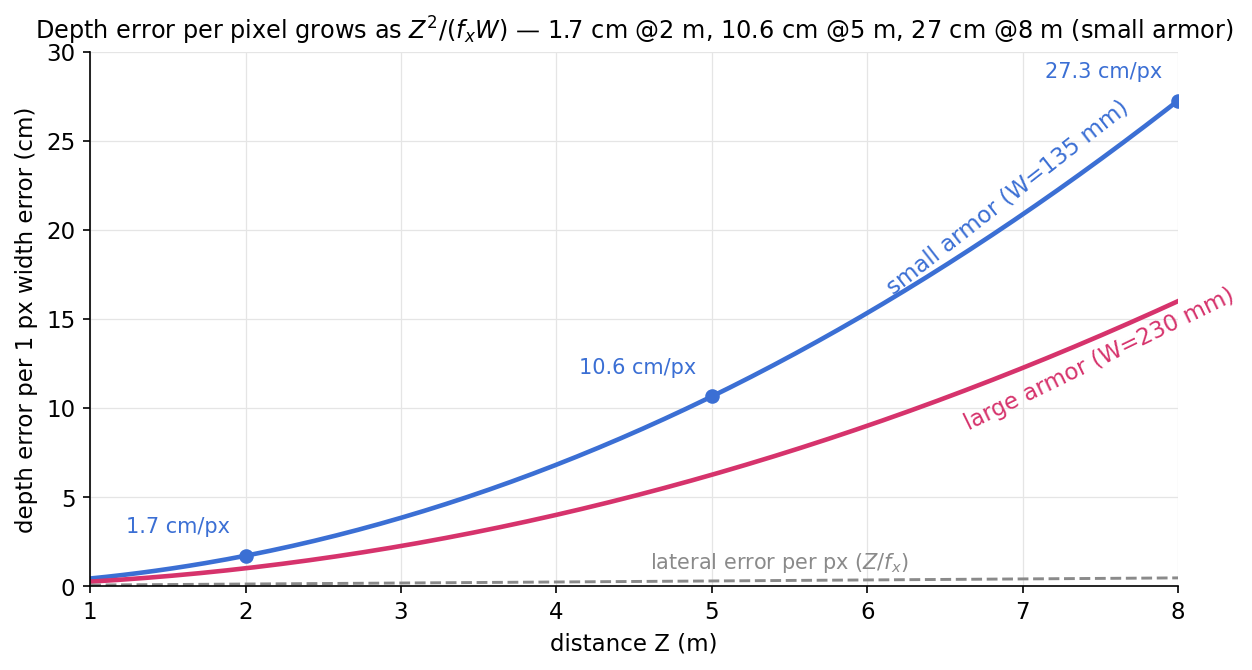
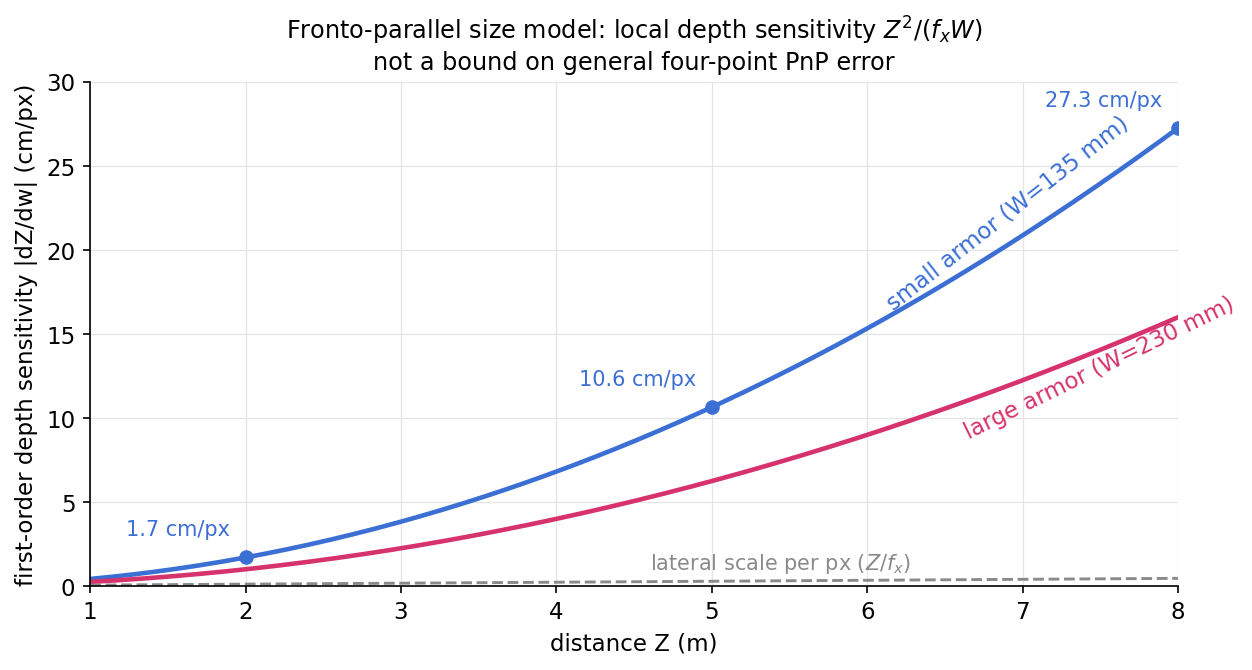
style(theory): 校准深度学习与相机模型叙述

diff --git a/examples/theory/camera_depth_sensitivity.py b/examples/theory/camera_depth_sensitivity.py
@@ -1,10 +1,14 @@
-# Depth error caused by 1 px of armor-width measurement error, vs distance.
-# Z = fx*W/w  =>  |dZ/dw| = Z^2/(fx*W): quadratic growth with distance.
+# First-order depth sensitivity to image-width measurement, vs distance.
+# Z = fx*W/w  =>  |dZ/dw| = Z^2/(fx*W) under the fronto-parallel size model.
 # fx = 1739 px (6 mm lens, 3.45 um pixel), W = 135 mm (small) / 230 mm (large).
 # Generates chapters/2.Theory/images/theory-camera-depth.png
 import numpy as np
 import matplotlib.pyplot as plt
 import matplotlib as mpl
+from pathlib import Path
+
+OUTPUT = (Path(__file__).resolve().parents[2]
+          / "chapters/2.Theory/images/theory-camera-depth.png")
 
 BLUE, MAGENTA, GRAY = "#3B6FD4", "#D6336C", "#8A8A8A"
 mpl.rcParams.update({"font.size": 11})
@@ -27,7 +31,7 @@ ax.annotate("small armor (W=135 mm)", (6.1, dz_small[-60] + 1.5),
             color=BLUE, fontsize=11, rotation=38)
 ax.annotate("large armor (W=230 mm)", (6.6, dz_large[-40] - 2.2),
             color=MAGENTA, fontsize=11, rotation=26)
-ax.annotate("lateral error per px ($Z/f_x$)", (4.6, 1.0), color=GRAY, fontsize=10)
+ax.annotate("lateral scale per px ($Z/f_x$)", (4.6, 1.0), color=GRAY, fontsize=10)
 
 # annotated points on the small-armor curve
 for z0 in (2, 5, 8):
@@ -37,9 +41,9 @@ for z0 in (2, 5, 8):
                 color=BLUE, fontsize=10)
 
 ax.set_xlabel("distance Z (m)")
-ax.set_ylabel("depth error per 1 px width error (cm)")
-ax.set_title("Depth error per pixel grows as $Z^2/(f_x W)$ — "
-             "1.7 cm @2 m, 10.6 cm @5 m, 27 cm @8 m (small armor)",
+ax.set_ylabel("first-order depth sensitivity |dZ/dw| (cm/px)")
+ax.set_title("Fronto-parallel size model: local depth sensitivity $Z^2/(f_x W)$\n"
+             "not a bound on general four-point PnP error",
              fontsize=11.5)
 ax.set_xlim(1, 8)
 ax.set_ylim(0, 30)
@@ -48,6 +52,5 @@ ax.set_axisbelow(True)
 for s in ("top", "right"):
     ax.spines[s].set_visible(False)
 fig.tight_layout()
-fig.savefig("/home/neomelt/RMCV_Tutorial/chapters/2.Theory/images/theory-camera-depth.png",
-            dpi=150, bbox_inches="tight", facecolor="white")
+fig.savefig(OUTPUT, dpi=150, bbox_inches="tight", facecolor="white")
 print("saved theory-camera-depth.png")

diff --git a/examples/theory/dl_mlp_dissect.py b/examples/theory/dl_mlp_dissect.py
@@ -1,4 +1,4 @@
-# 图：拆解基础篇的 mlp.onnx 数字分类器——三个真实候选的前向传播结果
+# 图：拆解基础篇的 mlp.onnx 数字分类器——三个仓库视频候选的前向结果
 # 复刻 examples/cpp/lightbar_pipeline.cpp 的提取流程（Python 版）：
 # 从 examples/test.mp4 的 7.0 s 帧提取灯条候选并配对，把候选区域透视矫正
 # 成 20x28 二值小图，喂给真实的 mlp.onnx，画出 9 类 softmax 概率。
@@ -6,12 +6,14 @@
 import cv2
 import numpy as np
 import matplotlib.pyplot as plt
+from pathlib import Path
 
-REPO = "/home/neomelt/RMCV_Tutorial"
+REPO_ROOT = Path(__file__).resolve().parents[2]
+OUTPUT = REPO_ROOT / "chapters/2.Theory/images/theory-dl-mlp-dissect.png"
 NAMES = ["1", "2", "3", "4", "5", "outpost", "guard", "base", "negative"]
 
 # --- 1) 取帧、二值化、找灯条（与基础篇 C++ 判据一致） ---
-cap = cv2.VideoCapture(f"{REPO}/examples/test.mp4")
+cap = cv2.VideoCapture(str(REPO_ROOT / "examples/test.mp4"))
 cap.set(cv2.CAP_PROP_POS_MSEC, 7000)
 ok, frame = cap.read()
 assert ok
@@ -59,7 +61,7 @@ for i in range(len(blues)):
         cands.append((left, right, "SMALL" if small else "LARGE"))
 
 # --- 3) 透视矫正成 20x28 二值图，跑真实的 mlp.onnx ---
-net = cv2.dnn.readNetFromONNX(f"{REPO}/examples/cpp/model/mlp.onnx")
+net = cv2.dnn.readNetFromONNX(str(REPO_ROOT / "examples/cpp/model/mlp.onnx"))
 results = []
 for left, right, typ in cands:
     light_len, warp_h = 12, 28
@@ -113,10 +115,9 @@ for col, k in enumerate(order):
     ax.set_yticks([0, 0.5, 1.0])
     ax.grid(axis="y", alpha=0.25, linewidth=0.5)
     if col == 0:
-        ax.set_ylabel("softmax probability", fontsize=9)
-fig.suptitle("mlp.onnx forward pass on three real candidates from the match video",
+        ax.set_ylabel("softmax output", fontsize=9)
+fig.suptitle("mlp.onnx outputs for three candidates from the repository video",
              fontsize=11.5)
 fig.tight_layout(rect=[0, 0, 1, 0.97])
-fig.savefig(f"{REPO}/chapters/2.Theory/images/theory-dl-mlp-dissect.png",
-            bbox_inches="tight")
+fig.savefig(OUTPUT, bbox_inches="tight")
 print("saved")

diff --git a/examples/theory/dl_optimizers.py b/examples/theory/dl_optimizers.py
@@ -3,6 +3,10 @@
 # 产出：chapters/2.Theory/images/theory-dl-optimizers.png
 import numpy as np
 import matplotlib.pyplot as plt
+from pathlib import Path
+
+OUTPUT = (Path(__file__).resolve().parents[2]
+          / "chapters/2.Theory/images/theory-dl-optimizers.png")
 
 A, B = 0.01, 1.0          # 两个方向的曲率：w1 平缓，w2 陡峭
 
@@ -17,7 +21,7 @@ def grad(p):
 
 start = np.array([-9.0, 2.5])
 steps = 60
-lr = 1.8                   # 接近 GD 稳定上界 2/B：陡峭方向剧烈振荡，平缓方向蠕动
+lr = 1.8                   # 接近 GD 稳定上界 2/B：高曲率方向反复换向
 
 # 朴素梯度下降
 p = start.copy()
@@ -27,7 +31,7 @@ for _ in range(steps):
     traj_gd.append(p.copy())
 traj_gd = np.array(traj_gd)
 
-# 动量法：v 累积历史梯度，振荡分量相互抵消，一致分量越滚越快
+# 动量法：v 累积历史梯度，反复变号的分量会部分抵消
 p = start.copy()
 v = np.zeros(2)
 beta, lr_m = 0.9, 0.4
@@ -56,13 +60,12 @@ ax.plot(*start, "ks", ms=7, zorder=5)
 ax.annotate("start", start + [0.15, 0.18], fontsize=9)
 ax.plot(0, 0, "k*", ms=13, zorder=5)
 ax.annotate("minimum", (0.2, -0.35), fontsize=9)
-ax.set_title(f"Same start, {steps} steps: momentum reaches the bottom, "
-             "plain GD is still zigzagging", fontsize=11)
+ax.set_title(f"Same quadratic and start, {steps} updates: momentum ends at lower loss\n"
+             "with the learning rates shown in the script", fontsize=11)
 ax.set_xlabel("$w_1$ (flat direction)")
 ax.set_ylabel("$w_2$ (steep direction)")
 ax.legend(loc="lower right", fontsize=9, framealpha=0.9)
 ax.grid(alpha=0.2, linewidth=0.5)
 fig.tight_layout()
-fig.savefig("/home/neomelt/RMCV_Tutorial/chapters/2.Theory/images/theory-dl-optimizers.png",
-            bbox_inches="tight")
+fig.savefig(OUTPUT, bbox_inches="tight")
 print(f"final loss: GD = {L_gd:.4f}, momentum = {L_mo:.6f}")

diff --git a/examples/theory/camera_pinhole.py b/examples/theory/camera_pinhole.py
@@ -2,6 +2,10 @@
 # Generates chapters/2.Theory/images/theory-camera-pinhole.png
 import matplotlib.pyplot as plt
 import matplotlib as mpl
+from pathlib import Path
+
+OUTPUT = (Path(__file__).resolve().parents[2]
+          / "chapters/2.Theory/images/theory-camera-pinhole.png")
 
 BLUE, MAGENTA, GRAY = "#3B6FD4", "#D6336C", "#8A8A8A"
 mpl.rcParams.update({"font.size": 11, "axes.linewidth": 0.8})
@@ -23,7 +27,7 @@ ax.annotate("O (optical center)", (-0.08, -0.34), ha="right", fontsize=10)
 # real image plane (behind O, inverted image) -- drawn faint
 ax.plot([-f, -f], [-1.1, 1.1], color=GRAY, lw=1.2, ls=":")
 ax.plot([-f], [-y], "o", color=GRAY, ms=5)
-ax.plot([Y and -f, 0], [-y, 0], color=GRAY, lw=1.0, ls=":")
+ax.plot([-f, 0], [-y, 0], color=GRAY, lw=1.0, ls=":")
 ax.annotate("real image plane\n(inverted)", (-f, 1.2), ha="center", color=GRAY, fontsize=9)
 ax.annotate("$-y$", (-f - 0.12, -y - 0.05), ha="right", color=GRAY, fontsize=10)
 
@@ -64,6 +68,5 @@ ax.set_ylim(-1.35, 2.65)
 ax.set_aspect("equal")
 ax.axis("off")
 fig.tight_layout()
-fig.savefig("/home/neomelt/RMCV_Tutorial/chapters/2.Theory/images/theory-camera-pinhole.png",
-            dpi=150, bbox_inches="tight", facecolor="white")
+fig.savefig(OUTPUT, dpi=150, bbox_inches="tight", facecolor="white")
 print("saved theory-camera-pinhole.png")

diff --git a/examples/theory/camera_distortion.py b/examples/theory/camera_distortion.py
@@ -4,6 +4,10 @@
 import numpy as np
 import matplotlib.pyplot as plt
 import matplotlib as mpl
+from pathlib import Path
+
+OUTPUT = (Path(__file__).resolve().parents[2]
+          / "chapters/2.Theory/images/theory-camera-distortion.png")
 
 BLUE, GRAY = "#3B6FD4", "#B0B0B0"
 mpl.rcParams.update({"font.size": 11})
@@ -49,9 +53,8 @@ for ax, (title, coef) in zip(axes, cases):
 axes[0].plot([], [], color=GRAY, lw=0.7, label="ideal grid")
 axes[0].plot([], [], color=BLUE, lw=1.3, label="distorted")
 axes[0].legend(loc="lower left", fontsize=9, framealpha=0.9)
-fig.suptitle("Brown model: distortion bends straight lines, and grows away from the center",
+fig.suptitle("Brown-model examples with exaggerated coefficients on a normalized grid",
              fontsize=13, y=1.0)
 fig.tight_layout()
-fig.savefig("/home/neomelt/RMCV_Tutorial/chapters/2.Theory/images/theory-camera-distortion.png",
-            dpi=150, bbox_inches="tight", facecolor="white")
+fig.savefig(OUTPUT, dpi=150, bbox_inches="tight", facecolor="white")
 print("saved theory-camera-distortion.png")

diff --git a/examples/theory/dl_nonlinearity.py b/examples/theory/dl_nonlinearity.py
@@ -3,6 +3,10 @@
 # 产出：chapters/2.Theory/images/theory-dl-nonlinearity.png
 import numpy as np
 import matplotlib.pyplot as plt
+from pathlib import Path
+
+OUTPUT = (Path(__file__).resolve().parents[2]
+          / "chapters/2.Theory/images/theory-dl-nonlinearity.png")
 
 rng = np.random.default_rng(7)
 
@@ -78,9 +82,8 @@ axes[0].set_ylabel("$x_2$")
 axes[0].legend(loc="upper left", fontsize=9, framealpha=0.9)
 axes[0].text(0.5, -0.45, "no straight line separates XOR", ha="center",
              fontsize=9, style="italic", color="#333333")
-axes[1].text(0.5, -0.45, "hidden layer bends the space", ha="center",
+axes[1].text(0.5, -0.45, "nonlinear hidden layer produces a curved boundary", ha="center",
              fontsize=9, style="italic", color="#333333")
 fig.tight_layout()
-fig.savefig("/home/neomelt/RMCV_Tutorial/chapters/2.Theory/images/theory-dl-nonlinearity.png",
-            bbox_inches="tight")
+fig.savefig(OUTPUT, bbox_inches="tight")
 print(f"acc linear = {acc_lin:.3f}, acc mlp = {acc_mlp:.3f}")
